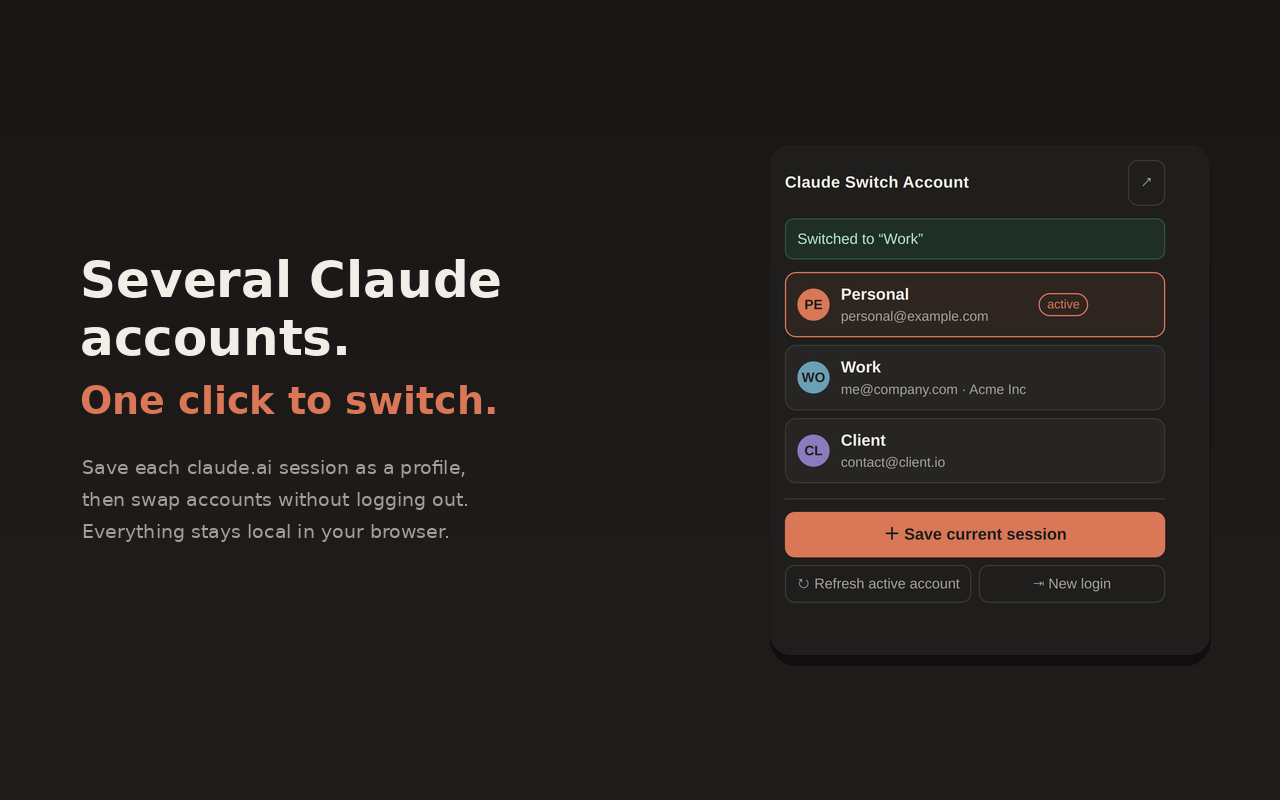
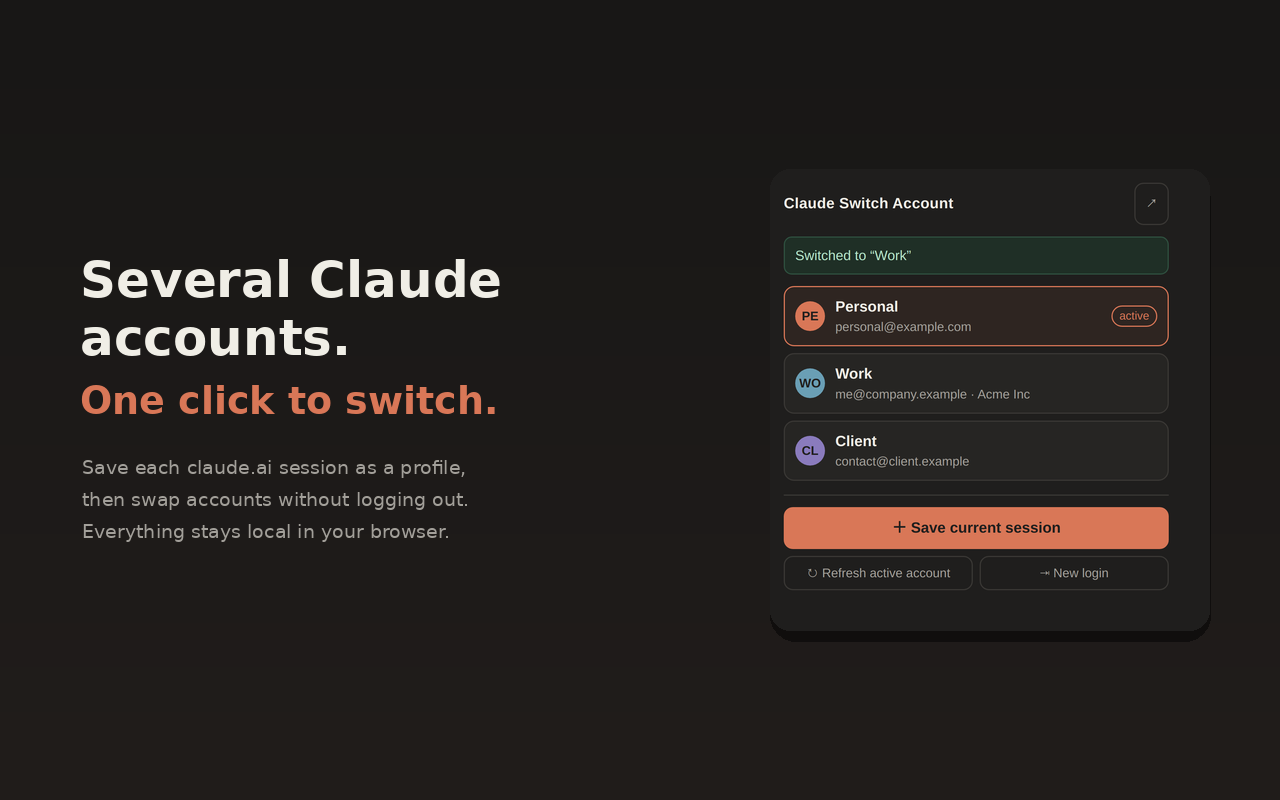
Fix footer button wrapping and add listing screenshots
The two footer buttons wrapped onto two lines in French and German,
which left the footer uneven. Widen the popup to 360px, shrink the
small-button text and keep it on one line.

- tools/make-store-assets.py: reproducible render of the popup with
  fictional accounts, producing the README shot, the 1280x800 store
  screenshot and the 440x280 promo tile
- README: show the popup screenshot

diff --git a/popup.css b/popup.css
@@ -12,7 +12,7 @@
 * { box-sizing: border-box; }
 
 body {
-  width: 330px;
+  width: 360px;
   margin: 0;
   padding: 12px;
   background: var(--bg);
@@ -193,4 +193,11 @@ button:disabled { opacity: 0.5; cursor: default; }
 
 .ghost:hover:not(:disabled) { color: var(--text); border-color: #565350; }
 
-.small { font-size: 11.5px; padding: 6px 8px; }
+/* Longer locales (fr/de/es) overflow these two buttons: keep them on one line. */
+.small {
+  font-size: 11px;
+  padding: 6px 6px;
+  white-space: nowrap;
+  overflow: hidden;
+  text-overflow: ellipsis;
+}

diff --git a/tools/make-store-assets.py b/tools/make-store-assets.py
@@ -1,0 +1,160 @@
+#!/usr/bin/env python3
+"""Renders the popup with sample accounts and builds the listing assets.
+
+Outputs:
+  docs/screenshot.png            popup shot for the README
+  store/screenshot-1280x800.png  Chrome Web Store screenshot
+  store/promo-440x280.png        Chrome Web Store small promo tile
+
+Usage: python3 tools/make-store-assets.py   (needs Pillow + google-chrome)
+
+The accounts shown are fictional on purpose: these images are published, so
+they must never carry a real session or e-mail address.
+"""
+
+import subprocess
+import sys
+import tempfile
+from pathlib import Path
+
+from PIL import Image, ImageDraw, ImageFont
+
+ROOT = Path(__file__).resolve().parent.parent
+BG = (24, 23, 22)
+PANEL = (31, 30, 29)
+TEXT = (240, 238, 230)
+MUTED = (163, 160, 154)
+ACCENT = (217, 119, 87)
+
+MOCK = """<!doctype html><html><head><meta charset="utf-8">
+<link rel="stylesheet" href="popup.css"></head><body>
+<header><h1>Claude Switch Account</h1><button class="ghost">↗</button></header>
+<div class="status ok">Switched to “Work”</div>
+<ul class="list">
+  <li class="item active"><div class="avatar" style="background:#d97757">PE</div>
+    <div class="info"><div class="name">Personal</div><div class="sub">personal@example.com</div></div>
+    <span class="badge">active</span></li>
+  <li class="item"><div class="avatar" style="background:#6a9fb5">WO</div>
+    <div class="info"><div class="name">Work</div><div class="sub">me@company.example · Acme Inc</div></div></li>
+  <li class="item"><div class="avatar" style="background:#8a7bbd">CL</div>
+    <div class="info"><div class="name">Client</div><div class="sub">contact@client.example</div></div></li>
+</ul>
+<footer><button class="primary">＋ Save current session</button>
+<div class="row"><button class="ghost small">↻ Refresh active account</button>
+<button class="ghost small">⇥ New login</button></div></footer>
+</body></html>"""
+
+
+def font(size, bold=False):
+    path = "/usr/share/fonts/truetype/dejavu/DejaVuSans%s.ttf" % ("-Bold" if bold else "")
+    try:
+        return ImageFont.truetype(path, size)
+    except OSError:
+        return ImageFont.load_default()
+
+
+def rounded(img, radius):
+    mask = Image.new("L", img.size, 0)
+    ImageDraw.Draw(mask).rounded_rectangle(
+        [0, 0, img.size[0] - 1, img.size[1] - 1], radius=radius, fill=255
+    )
+    out = img.copy()
+    out.putalpha(mask)
+    return out
+
+
+def render_popup():
+    """Screenshots the mock through headless Chrome at 3x for crisp downscaling."""
+    with tempfile.TemporaryDirectory() as tmp:
+        tmp = Path(tmp)
+        (tmp / "mock.html").write_text(MOCK)
+        (tmp / "popup.css").write_text((ROOT / "popup.css").read_text())
+        shot = tmp / "shot.png"
+        subprocess.run(
+            ["google-chrome", "--headless=new", "--no-sandbox", "--disable-gpu",
+             f"--user-data-dir={tmp / 'profile'}", "--force-device-scale-factor=3",
+             "--window-size=384,470", f"--screenshot={shot}",
+             "--virtual-time-budget=3000", str(tmp / "mock.html")],
+            check=True, capture_output=True, timeout=120,
+        )
+        img = Image.open(shot).convert("RGBA")
+        # Trim the dead space below the footer so the panel hugs its content.
+        return img.crop((0, 0, img.size[0], int(img.size[1] * 0.86)))
+
+
+def readme_shot(popup):
+    out = ROOT / "docs" / "screenshot.png"
+    out.parent.mkdir(exist_ok=True)
+    width = 420
+    popup.resize((width, int(popup.size[1] * width / popup.size[0])), Image.LANCZOS).save(out)
+    return out
+
+
+def store_screenshot(popup):
+    w, h = 1280, 800
+    canvas = Image.new("RGB", (w, h), BG)
+    draw = ImageDraw.Draw(canvas)
+    for y in range(h):  # subtle vertical wash
+        k = y / h
+        draw.line([(0, y), (w, y)], fill=(int(24 + 9 * k), int(23 + 6 * k), int(22 + 5 * k)))
+
+    # Fit by width so the panel can never run past the right edge.
+    panel_w = 440
+    panel = popup.resize(
+        (panel_w, int(popup.size[1] * panel_w / popup.size[0])), Image.LANCZOS
+    )
+    panel = rounded(panel, 20)
+    px, py = 770, (h - panel.size[1]) // 2
+
+    shadow = Image.new("RGBA", (panel.size[0] + 56, panel.size[1] + 56), (0, 0, 0, 0))
+    ImageDraw.Draw(shadow).rounded_rectangle(
+        [28, 34, panel.size[0] + 28, panel.size[1] + 38], radius=26, fill=(0, 0, 0, 120)
+    )
+    canvas.paste(shadow.convert("RGB"), (px - 28, py - 28), shadow)
+    canvas.paste(panel, (px, py), panel)
+
+    draw.text((80, 250), "Several Claude", font=font(50, True), fill=TEXT)
+    draw.text((80, 308), "accounts.", font=font(50, True), fill=TEXT)
+    draw.text((80, 378), "One click to switch.", font=font(38, True), fill=ACCENT)
+    for i, line in enumerate([
+        "Save each claude.ai session as a profile,",
+        "then swap accounts without logging out.",
+        "Everything stays local in your browser.",
+    ]):
+        draw.text((82, 456 + i * 32), line, font=font(19), fill=MUTED)
+
+    out = ROOT / "store" / "screenshot-1280x800.png"
+    out.parent.mkdir(exist_ok=True)
+    canvas.save(out)
+    return out
+
+
+def promo_tile():
+    w, h = 440, 280
+    tile = Image.new("RGB", (w, h), PANEL)
+    draw = ImageDraw.Draw(tile)
+    draw.rectangle([0, 0, w, 6], fill=ACCENT)
+
+    icon = Image.open(ROOT / "icons" / "icon128.png").convert("RGBA").resize((72, 72), Image.LANCZOS)
+    tile.paste(icon, (32, 52), icon)
+
+    draw.text((122, 58), "Claude", font=font(30, True), fill=TEXT)
+    draw.text((122, 94), "Switch Account", font=font(30, True), fill=ACCENT)
+    draw.text((32, 160), "Multiple claude.ai accounts,", font=font(17), fill=MUTED)
+    draw.text((32, 186), "one click to switch between them.", font=font(17), fill=MUTED)
+    draw.text((32, 226), "Local only  ·  No tracking  ·  Open source", font=font(14), fill=(120, 117, 112))
+
+    out = ROOT / "store" / "promo-440x280.png"
+    out.parent.mkdir(exist_ok=True)
+    tile.save(out)
+    return out
+
+
+if __name__ == "__main__":
+    try:
+        popup = render_popup()
+    except (subprocess.CalledProcessError, FileNotFoundError, subprocess.TimeoutExpired) as err:
+        sys.exit(f"headless Chrome render failed: {err}")
+
+    for path in (readme_shot(popup), store_screenshot(popup), promo_tile()):
+        print(f"{path.relative_to(ROOT)}  {Image.open(path).size}")

diff --git a/README.md b/README.md
@@ -9,6 +9,10 @@ Browser extension (Manifest V3) to keep **several claude.ai accounts** side by s
 
 *(Version française plus bas — [Français](#français))*
 
+<p align="center">
+  <img src="docs/screenshot.png" alt="The extension popup listing three saved accounts, with the active one highlighted" width="380">
+</p>
+
 ---
 
 ## How it works
